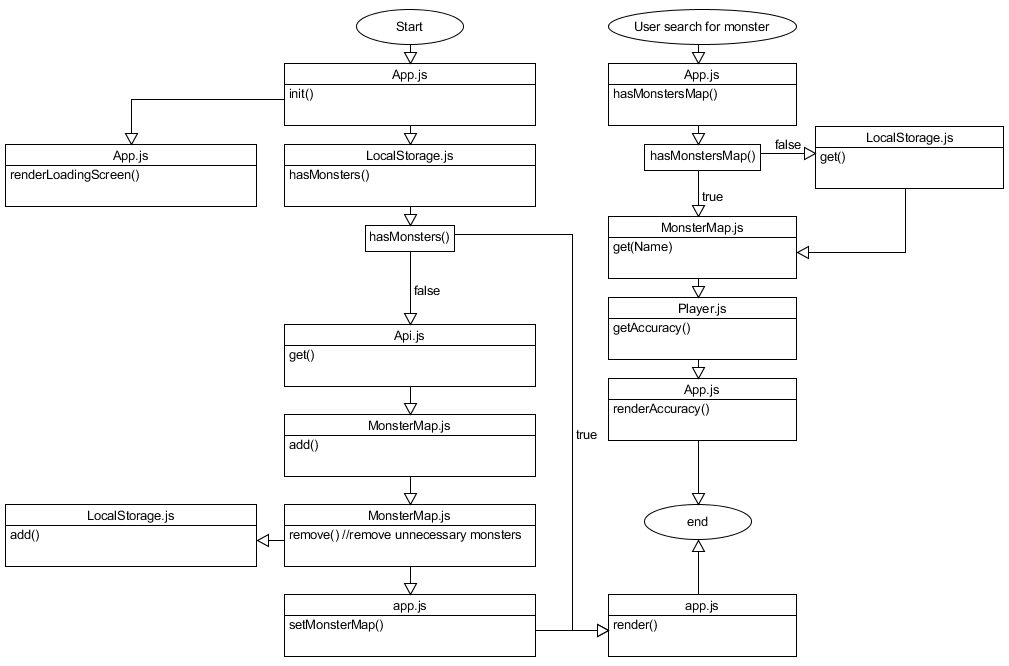
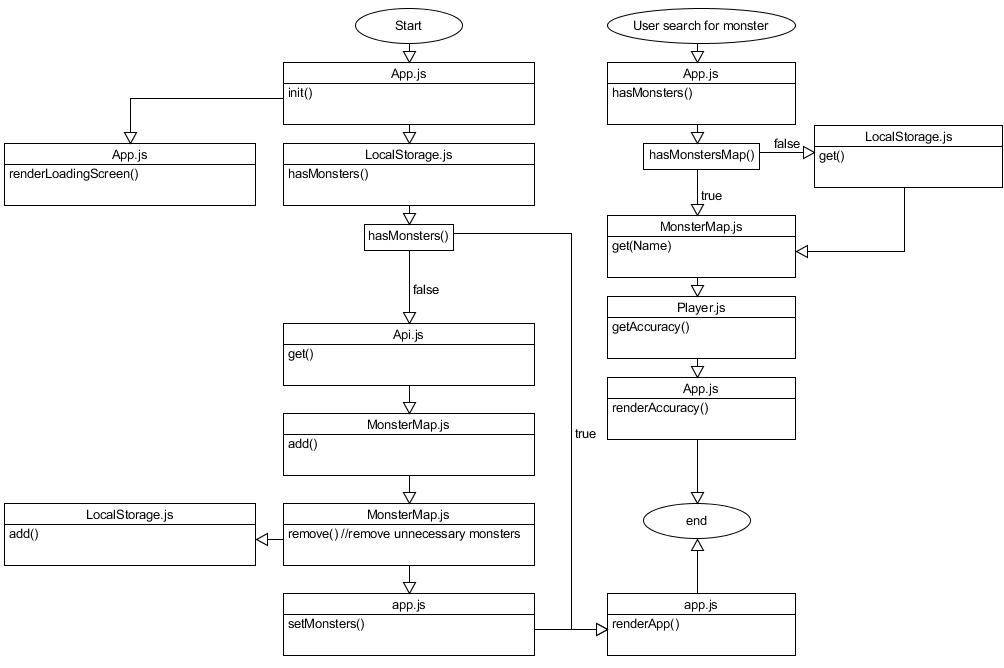
Implemented actor diagram into code

diff --git a/js/modules/Api.js b/js/modules/Api.js
@@ -5,42 +5,37 @@ export class Api {
     constructor(app){
         this.app = app
         this.myLocalStorage = app.myLocalStorage;
+        this.renderer = app.renderer;
     }
 
-    getDataFromApi(){
+    get(){
         var apiUrl = "https://www.osrsbox.com/osrsbox-db/monsters-complete.json";
-        var api = this;
-        
-        this.getJSON(apiUrl, function(err, json) {
+        var api = this
+
+        api._getJSON(apiUrl, function(err, json) {
             if (err !== null) {
-                alert('Something went wrong: ' + err);
-            } else {
-                api.useData(json);
+                api.app.renderError();
+            } else {//succes
+                api._onSucces(json);
             }
         });
     }  
     
-    useData(json){
+    _onSucces(json){
         //filter data
-        var monsters = this.filterData(json);
-
-        //show monsters
-        this.app.showMonsters(monsters);
-
-        //save monsters to local storage
-        this.myLocalStorage.saveMonsters(monsters);
-    }
-
-    filterData(json){
-        //make array of monsters, each monster must have his name as a primary key to find it in the array.
-        //also the monster class uses only the nesecairy data to increase speed.
-
         var monsters = new MonsterMap(json)
 
-        return monsters;
+        //save monsters to local storage
+        this.myLocalStorage.add(monsters);
+
+        //save monsters to be able to search
+        this.app.setMonsters(monsters)
+
+        //show user api call is done
+        this.renderer.renderApp();
     }
 
-    getJSON(url, callback) {
+    _getJSON(url, callback) {
         var xhr = new XMLHttpRequest();
         xhr.open('GET', url, true);
         xhr.responseType = 'json';

diff --git a/js/app.js b/js/app.js
@@ -1,30 +1,46 @@
+import {Renderer} from "./modules/Renderer.js";
 import {MyLocalStorage} from "./modules/MyLocalStorage.js";
 import {Api} from "./modules/Api.js";
 
 class App { 
+    monsters;//todo: kan dit weg?
     
-    myLocalStorage = new MyLocalStorage();
-    api = new Api(this);
+    constructor(){
+        //vars
+        this.renderer = new Renderer(this);
+        this.myLocalStorage = new MyLocalStorage();
+        this.api = new Api(this);
+        
+        //init
+        this.init();
+    }
 
-    loadData(){
-        //define variable
-        var monsters;
+    init(){        
+        //show loading screen
+        this.renderer.renderLoadingScreen();
 
         //check if there is data in the local storage    
-        if(this.myLocalStorage.hasData()){
+        if(this.myLocalStorage.hasMonsters()){
             //load data from local storage
-            monsters = this.myLocalStorage.getMonsters();
+            monsters = this.myLocalStorage.get();
         }else{
             //get data from api
-            monsters = this.api.getDataFromApi();
+            this.api.get();
         }
+        
+    }
 
-        return monsters
-    } 
+    searchMonster(monsterName){
+        alert(monsterName)
+    }
 
-    showMonsters(monsters){
-        document.getElementById("screen").innerHTML = monsters.get("Typhor").getName();//show 9296th item to show speed
+    setMonsters(monsters){//monsterMap object
+        this.monsters = monsters;
+    }
+
+    hasMonsters(){
+        this.monsters.length !== null;
     }
 }
 
-new App().loadData();
+new App();

diff --git a/js/modules/Renderer.js b/js/modules/Renderer.js
@@ -1,0 +1,37 @@
+export class Renderer{
+    constructor(app){
+        this.app = app;
+        this.setComponents();
+    }
+
+    renderLoadingScreen(){
+        this.loadingScreen.innerHTML = "Loading, please wait...";
+    }
+
+    renderApp(){
+        this.loadingScreen.classList.toggle("hidden");
+        this.website.classList.toggle("hidden");
+    }
+
+    renderError(){
+        document.getElementById("screen").innerHTML = "api call error!";
+    }
+
+    showMonsters(monsters){
+        document.getElementById("screen").innerHTML = monsters.get("Typhor").getName();//show 9296th item to show speed
+    }
+
+    setComponents(){
+        this.loadingScreen = document.getElementById("loading_screen");
+        this.website = document.getElementById("website");
+        this.submitButton = document.getElementById("submit");
+        this.monsterName = document.getElementById("monster_name");
+
+
+        const app = this.app;
+        const monsterInput = this.monsterName;
+        this.submitButton.onclick = function(){
+            app.searchMonster(monsterInput.value);
+        };
+    }
+}

diff --git a/js/modules/MonsterMap.js b/js/modules/MonsterMap.js
@@ -1,11 +1,12 @@
 import {Monster} from "../models/Monster.js"
 
+//Array of monsters searchable by name (Super Fast!)
 export class MonsterMap{
     
     constructor(json){
         this._array = new Array();
 
-        for (var monsterId of Object.keys(json)){
+        for (var monsterId of Object.keys(json)){//todo: remove bs monsters
             var monster = new Monster(json[monsterId]);
             this.add(monster);
         } 
@@ -20,7 +21,7 @@ export class MonsterMap{
         return this._array[name];
     }
 
-    getAllMonsters(){
+    getAll(){
         return this._array;
     }
 

diff --git a/js/modules/MyLocalStorage.js b/js/modules/MyLocalStorage.js
@@ -4,18 +4,18 @@ export class MyLocalStorage{
 
     _MONSTERS = "monsters";
 
-    hasData(){
+    hasMonsters(){
         return false//this.getMonsters().length !== null;
     }
 
-    getMonsters(){
+    get(){
         var json = localStorage.getItem(this._MONSTERS);
         var monsters = MonsterMap.fromJSON(json);
     
         return monsters;
     }
 
-    saveMonsters(monsters){
+    add(monsters){
         var json = JSON.stringify(monsters);
         localStorage.setItem(this._MONSTERS, json);
     }

diff --git a/index.html b/index.html
@@ -11,7 +11,16 @@
 <body>
 
     <!--Show loading screen, data done? show app-->
-    <div id="screen">Loading, please wait...</div>
+    <div id="loading_screen">
+      
+    </div>
+    <div id="website" class="hidden">
+      <input id="monster_name" type="text">
+      <button id="submit">Search</button>
+    </div>
+
+    
+    
 
     <!--get app class-->
     <script src="./js/App.js" type="module"></script>

diff --git a/js/modules/Player.js b/js/modules/Player.js
@@ -1,0 +1,5 @@
+export class Player{
+    getAccuracy(){
+        //todo: fix this
+    }
+}

diff --git a/css/styles.css b/css/styles.css
@@ -1,0 +1,3 @@
+.hidden{
+    display: none;
+}
